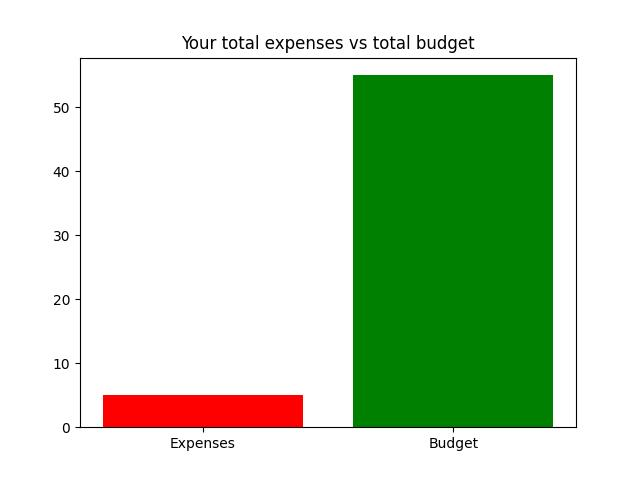
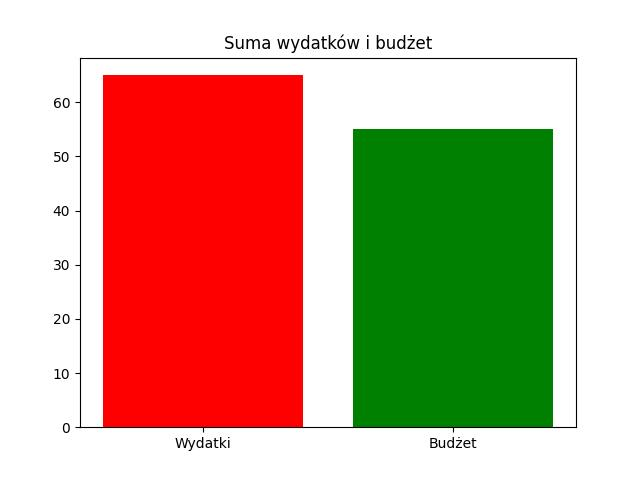
Tłumaczenie&pokazanie sumy

diff --git a/wydatki/templates/wydatki/index.html b/wydatki/templates/wydatki/index.html
@@ -7,7 +7,7 @@
     <head>
         <link href="https://fonts.googleapis.com/icon?family=Material+Icons" rel="stylesheet">
         <link rel="stylesheet" href="https://cdnjs.cloudflare.com/ajax/libs/materialize/1.0.0/css/materialize.min.css">
-        <title>Budget App</title>
+        <title>Wydatki</title>
         
        <meta name="viewport" content="width=device-width, initial-scale=1.0"/>
     </head>
@@ -16,9 +16,9 @@
         
         <nav>
             <div class="nav-wrapper">
-                <a href='{% url "index" %}' class='brand-logo center'>Hi, {{ user }}</a>
+                <a href='{% url "index" %}' class='brand-logo center'>Cześć, {{ user }}</a>
                 <ul class="right">
-                    <li><a href='{% url "logout" %}' class='btn'>Logout</a></li>
+                    <li><a href='{% url "logout" %}' class='btn'>Wyloguj</a></li>
                 </ul>
             </div>
         </nav>
@@ -29,23 +29,24 @@
                     {% csrf_token %}
                     <div class="row">
                         <div class="container center">
-                            <h3 class='center'>Your total budget is: <span style="color:green;">{{budget}}</span> dollars</h3>
-                            <h3 clas='center'>You've spent a total of : <span style="color:red;">{{expenses}}</span> dollars</h3>
+                            <h3 class='center'>Twój całkowity budżet to: <span style="color:blue;">{{budget}}</span> złotych</h3>
+                            <h3 clas='center'>Wydałeś w sumie : <span style="color:red;">{{expenses}}</span> złotych</h3>
+                            <h3 clas='center'>Zostało : <span style="color:green;">{{remaining}}</span> złotych</h3>
                             <br>
                             <br>
                             <div class="input-field col s3">
                                 <input placeholder="Expense name" name="expense_name" id='expense_name' type='text' class='validate'>
-                                <label for='expense_name'>Expense name</label>
+                                <label for='expense_name'>Nazwa wydatku</label>
                             </div>
                             <div class="input-field col s3">
                                 <input placeholder='Amount' name='cost' id='cost' type='text' class='validate'>
-                                <label for='cost'>Amount</label>
+                                <label for='cost'>Kwota</label>
                             </div>
                             <div class="input-field col s3">
                                 <input placeholder='Date of Expense' name="expense_date" id="expense_date" type="text" class='datepicker'>
-                                <label for="expense_date">Expense Date</label>
+                                <label for="expense_date">Data</label>
                             </div>
-                            <button class="btn waves-effect waves-light" type="submit" name="action">Add Expense
+                            <button class="btn waves-effect waves-light" type="submit" name="action">Dodaj wydatek
                                 <i class="material-icons right">add_circle</i>
                             </button>
                         </div>
@@ -61,9 +62,9 @@
                         <table class="striped centered responsive-table">
                             <thead>
                                 <tr>
-                                    <th>Item</th>
-                                    <th>Amount</th>
-                                    <th>Date</th>
+                                    <th>Nazwa</th>
+                                    <th>Kwota</th>
+                                    <th>Data</th>
                                     <th></th>
                                 </tr>
                             </thead>

diff --git a/wydatki/templates/registration/login.html b/wydatki/templates/registration/login.html
@@ -5,7 +5,7 @@
 
     <head>
         <link rel="stylesheet" href="https://cdnjs.cloudflare.com/ajax/libs/materialize/1.0.0/css/materialize.min.css">
-        <title>Budget App</title>
+        <title>Wydatki: logowanie</title>
         
        <meta name="viewport" content="width=device-width, initial-scale=1.0"/>
     </head>
@@ -14,7 +14,7 @@
         
         <div class="section">
             <div class="container">
-                <h2 class="center">Please sign in to view your budget informtion.</h2>
+                <h2 class="center">Zaloguj się</h2>
             </div>
         </div>
         <div class="section">
@@ -22,10 +22,10 @@
                 <form method="post">
                     {% csrf_token %}
                     {{ form.as_p }}
-                    <button class="btn waves-effect"type='submit'>Login</button>
+                    <button class="btn waves-effect"type='submit'>Zaloguj</button>
                 </form>
                 <br>
-                Don't have an account?<a href='{% url "sign up" %}'><strong> Create one here.</strong></a>
+                Nie masz konta?<a href='{% url "sign up" %}'><strong> Stwórz je tutaj.</strong></a>
             </div>
         </div>
 

diff --git a/wydatki/templates/wydatki/sign_up.html b/wydatki/templates/wydatki/sign_up.html
@@ -7,12 +7,12 @@
     <meta http-equiv="X-UA-Compatible" content="ie=edge">
     <link href="https://fonts.googleapis.com/icon?family=Material+Icons" rel="stylesheet">
     <link rel="stylesheet" href="https://cdnjs.cloudflare.com/ajax/libs/materialize/1.0.0/css/materialize.min.css">
-    <title>Document</title>
+    <title>Wydatki: tworzenie konta</title>
 </head>
 <body>
     
     <div class="container">
-        <h2 class="center">Create an account</h2>
+        <h2 class="center">Zarejestruj się</h2>
         {% for error in form.non_field_errors %}
             {{ error }}
         {% endfor %}
@@ -22,7 +22,7 @@
         <form method='post' action = '{% url "sign up" %}'>
             {% csrf_token %}
             {{form.as_p}}
-            <button class='btn waves-effect' type="submit">Register</button>
+            <button class='btn waves-effect' type="submit">Zarejestruj</button>
         </form>
     </div>
 </body>

diff --git a/ankiety/templates/ankiety/detail.html b/ankiety/templates/ankiety/detail.html
@@ -8,6 +8,6 @@
             <label for="choice{{ forloop.counter }}">{{ choice.choice_text }} -- {{ choice.votes }} vote{{ choice.votes|pluralize }}</label><br>
         {% endfor %}
     </fieldset>
-    <input type="submit" value="Vote">
+    <input type="submit" value="Zagłosuj">
     </form>
     <li><a href="..">Powrót</a></li>

diff --git a/ankiety/templates/ankiety/index.html b/ankiety/templates/ankiety/index.html
@@ -13,5 +13,5 @@
         <p>Nie ma ankiet.</p>
     {% endif %}
 {% else %}
-<a href="{% url 'admin:index' %}">Najpierw się zaloguj!</a>
+<a href='{% url "login" %}'>Najpierw się zaloguj!</a>
 {% endif %}

diff --git a/ankiety/templates/ankiety/wyniki.html b/ankiety/templates/ankiety/wyniki.html
@@ -6,4 +6,4 @@
 {% endfor %}
 </ul>
 
-<a href="{% url 'ankiety:detail' question.id %}">Vote again?</a>
+<a href="{% url 'ankiety:detail' question.id %}">Zagłosować od nowa?</a>

diff --git a/wydatki/views.py b/wydatki/views.py
@@ -17,15 +17,15 @@ def index(request):
         budget_total = ExpenseInfo.objects.filter(user_expense=request.user).aggregate(budget=Sum('cost',filter=Q(cost__gt=0)))
         expense_total = ExpenseInfo.objects.filter(user_expense=request.user).aggregate(expenses=Sum('cost',filter=Q(cost__lt=0)))
         fig,ax=plt.subplots()
-        ax.bar(['Expenses','Budget'], [abs(expense_total['expenses']),budget_total['budget']],color=['red','green'])
-        ax.set_title('Your total expenses vs total budget')
+        ax.bar(['Wydatki','Budżet'], [abs(expense_total['expenses']),budget_total['budget']],color=['red','green'])
+        ax.set_title('Suma wydatków i budżet')
         plt.savefig('wydatki/static/wydatki/expense.jpg')
     except TypeError:
-        print('No data.')
+        print('Brak danych.')
     if expense_total['expenses']:
-        context = {'expense_items':expense_items,'budget':budget_total['budget'],'expenses':abs(expense_total['expenses'])}
+        context = {'expense_items':expense_items,'budget':budget_total['budget'],'expenses':abs(expense_total['expenses']), 'remaining':(budget_total['budget']-abs(expense_total['expenses']))}
     else:   #naprawia błąd w przypadku braku wpisów
-        context = {'expense_items':expense_items,'budget':budget_total['budget'],'expenses':(expense_total['expenses'])}
+        context = {'expense_items':expense_items,'budget':budget_total['budget'],'expenses':(expense_total['expenses']), 'remaining':(budget_total['budget']-expense_total['expenses'])}
     return render(request,'wydatki/index.html',context=context)
 
 def add_item(request):
@@ -37,10 +37,10 @@ def add_item(request):
     expense_total = ExpenseInfo.objects.filter(user_expense=request.user).aggregate(expenses=Sum('cost',filter=Q(cost__lt=0)))
     fig,ax=plt.subplots()
     if expense_total['expenses']:
-        ax.bar(['Expenses','Budget'], [abs(expense_total['expenses']),budget_total['budget']],color=['red','green'])
+        ax.bar(['Wydatki','Budżet'], [abs(expense_total['expenses']),budget_total['budget']],color=['red','green'])
     else:
-        ax.bar(['Expenses','Budget'], [expense_total['expenses'],budget_total['budget']],color=['red','green'])
-    ax.set_title('Your total expenses vs. total budget')
+        ax.bar(['Wydatki','Budżet'], [expense_total['expenses'],budget_total['budget']],color=['red','green'])
+    ax.set_title('Suma wydatków i budżet')
     plt.savefig('wydatki/static/wydatki/expense.jpg')
     return HttpResponseRedirect('app')
 
@@ -61,7 +61,7 @@ def sign_up(request):
         else:
             for msg in form.error_messages:
                 print(form.error_messages[msg])
-                errors+=msg
+                errors+=form.error_messages[msg]
             return render(request, 'wydatki/error.html', {
             'error_message': errors ,
              })

diff --git a/przydatnik/settings.py b/przydatnik/settings.py
@@ -40,7 +40,7 @@ INSTALLED_APPS = [
     'django.contrib.sessions',
     'django.contrib.messages',
     'django.contrib.staticfiles',
-    'wydatki'
+    'wydatki',
 ]
 
 MIDDLEWARE = [
